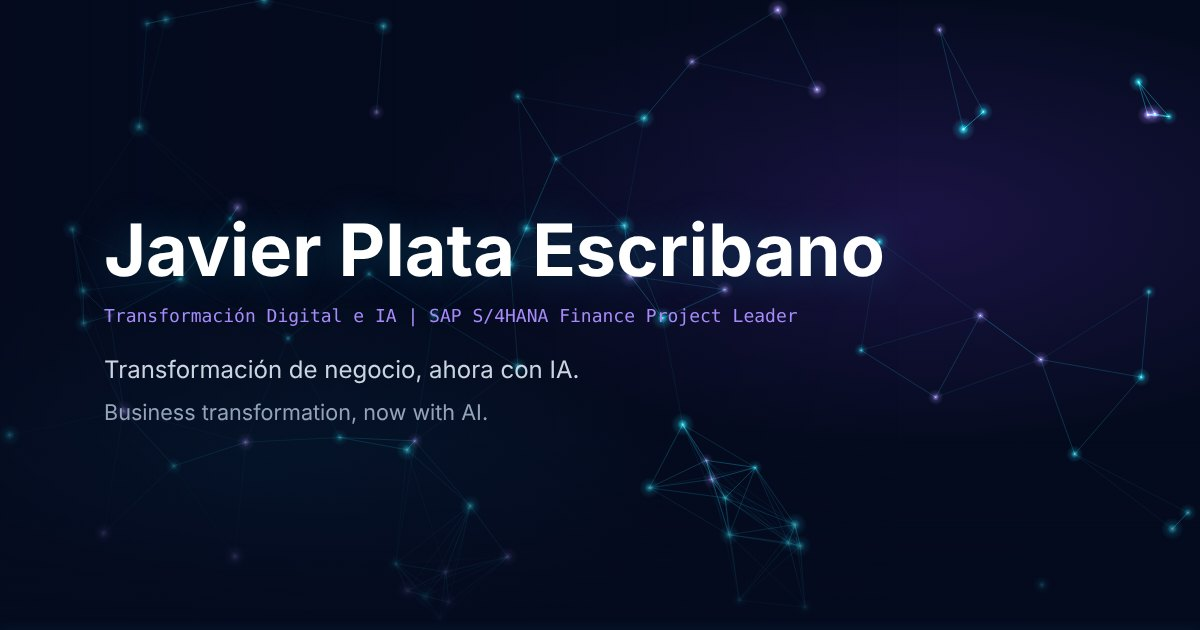
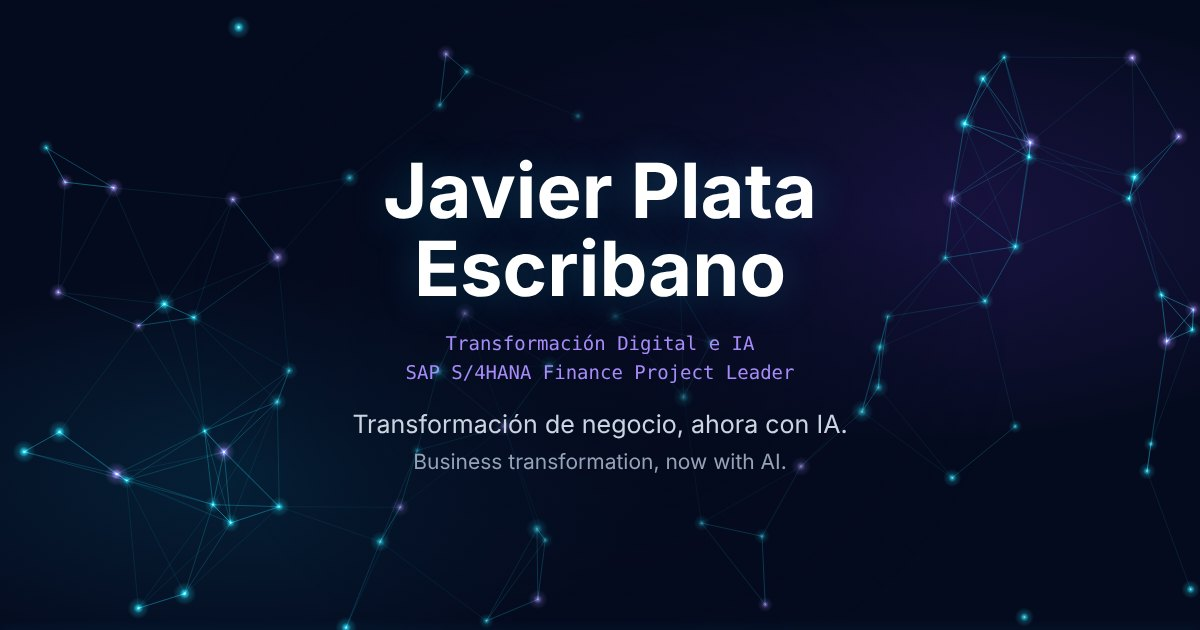
Imagen de portada centrada para que se vea completa en la miniatura cuadrada de WhatsApp
Claude-Session: https://claude.ai/code/session_012bdfkzNcT1vBLSHHUEqBrt

diff --git a/DETALLES.md b/DETALLES.md
@@ -138,7 +138,7 @@ Todo está hecho con HTML, CSS y JavaScript propio, sin librerías ni backend.
   - **LinkedIn:** pega la URL en el [LinkedIn Post Inspector](https://www.linkedin.com/post-inspector/) o en un borrador de publicación.
   - **WhatsApp (Android e iPhone):** envía el enlace en un chat (por ejemplo, contigo mismo); la tarjeta aparece antes de enviar.
   - **Cualquier red:** [opengraph.xyz](https://www.opengraph.xyz/) muestra cómo se verá en cada una.
-- **Valor:** primera impresión cuidada incluso antes de entrar. Como la web tiene una única URL para los dos idiomas, la vista previa es **bilingüe** (frase en español e inglés). La imagen pesa 54 KB para que WhatsApp la muestre sin problemas, y la imagen se generó a partir del propio Hero, así que la marca es coherente.
+- **Valor:** primera impresión cuidada incluso antes de entrar. Como la web tiene una única URL para los dos idiomas, la vista previa es **bilingüe** (frase en español e inglés). La imagen pesa 62 KB para que WhatsApp la muestre sin problemas, se generó a partir del propio Hero (marca coherente) y tiene una **composición centrada**: si WhatsApp en móvil la recorta a una miniatura cuadrada, el nombre, el rol y la frase siguen viéndose completos.
 
 ---
 

diff --git a/CONTENIDO.md b/CONTENIDO.md
@@ -199,7 +199,7 @@ Interface labels: "My role", "See more", "✦ Turn on the 3D motion effect" and,
 Una sola URL para los dos idiomas, así que la vista previa es bilingüe:
 - Título (ES): Javier Plata Escribano · Transformación Digital e IA · (EN): Javier Plata Escribano · Digital & AI Transformation
 - Descripción (fija, bilingüe): Transformación de negocio, ahora con IA. · Business transformation, now with AI. — SAP S/4HANA Finance Project Leader.
-- Imagen (`images/og-image.jpg`, 1200×630): red neuronal del Hero, nombre, rol y la frase en español e inglés.
+- Imagen (`images/og-image.jpg`, 1200×630): red neuronal del Hero y, centrados (para que sobrevivan al recorte cuadrado de WhatsApp), nombre en dos líneas, rol en dos líneas y la frase en español e inglés.
 - Texto alternativo de la imagen (ES): Javier Plata Escribano · Transformación de negocio, ahora con IA · (EN): Javier Plata Escribano · Business transformation, now with AI
 
 ## Textos de interfaz / Interface texts
